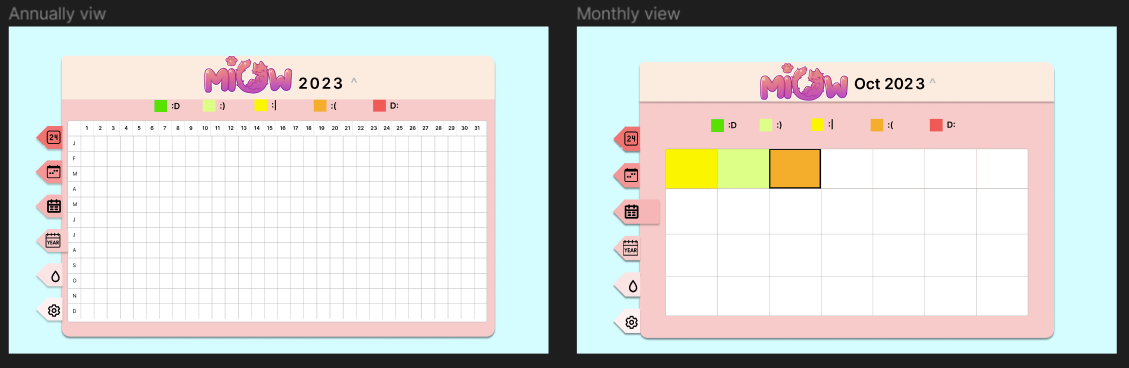
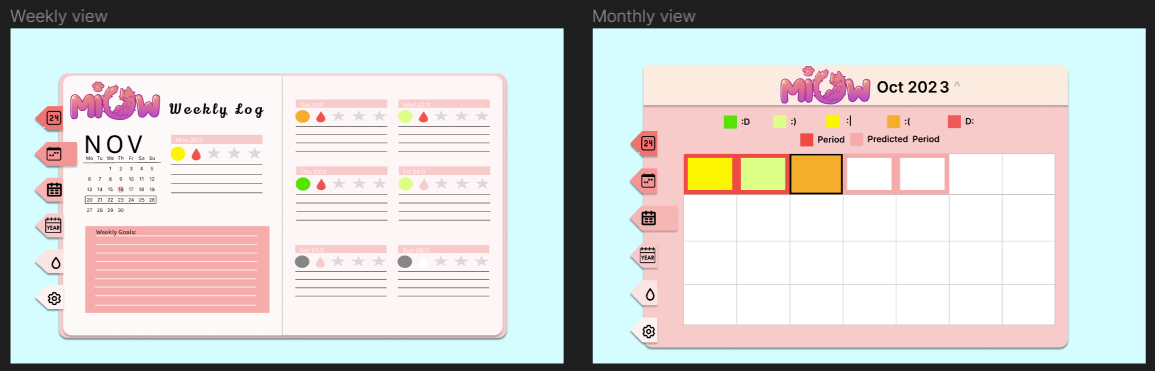
issues part one

Changed region(s): [[0.0, 0.0299, 1.0, 0.9864], [0.806, 0.7473, 0.868, 0.7772], [0.713, 0.7473, 0.744, 0.7772]]

diff --git a/README.md b/README.md
@@ -54,13 +54,14 @@ Unser Ziel ist es, eine umfassende Online-Plattform mit dem Namen "MIOW"(Mood In
 <img src="Usecase overviw.png">
 der benutzer hat die usecases
 
- * Login
- * Tägliche einträge machen
+ * A) Login
+ * B)Tägliche einträge machen
  ->hier hat man ein fenster wo man an einem tag seine Stimmung, einen Text, Periodendaten und weitere personalisierbaren faktoren eingeben kann
- * Auswerten des Tagebuches
--> hier sieht man pro woche und monat und jahr wie die stimmung verläuft in einem kalender view
- * Nächste Periode vorhersagen
-  -> hier sieht man in einem monatlichem kalender die periodendaten ( normal day, period, ovulating, predicted period und predicted ovulating)
+ * C)Auswerten des Tagebuches
+-> hier sieht man pro woche und monat wie die stimmung verläuft in einem kalender view
+ * D)Nächste Periode vorhersagen
+  -> hier sieht man in einem monatlichem kalender die periodendaten 
+* E) Settings
 
 ### 3.2 Use Case A - Login
 Man kann sich Anmelden und Registriren
@@ -77,7 +78,8 @@ Workflow mit ACD:
 ### 3.3 Use Case B - Tägliche einträge
 Möglichkeit, tägliche Einträge zu verfassen, Stimmungen auszuwählen und Aktivitäten hinzuzufügen. 
 Anpassbare Einträge für persönliche Vorlieben und Bedürfnisse(Usecase Settings). 
-Es soll feste definierte blöcke geben wie mood(1-5) oder stimmung(happy etc) und einen täglichen text.Daraus entsteht eine art Blockset, das jeden tag neu ausgefüllt werden kann.
+Es soll feste definierte blöcke wie mood(1-5), stimmung(happy etc) und einen täglichen text geben. Aber auch definierbare Templates. Daraus ensteht eine art Blockset, die man dan Jeden tag ausfüllen kann.
+Hier kann man mit Pfeiltasten zurück/nach vorne. Einträge kann man in der vergangenheit/ heute machen.
 #### 3.3.1 GUI-Design
 <img src = "UsecaseBGUI.png">
 hier hat man an einem tag ein "blockset"(kann man in den einstellungen festlegen, kommen wir später dazu)
@@ -90,15 +92,13 @@ Man Wählt den richtigen tag aus, trägt alles ein und es wird automatisch gespe
 
 ### 3.4 Use Case C - Auswerten der Einträge
 man hat verschiedene ansichen wo man jeweils den vortschritt seiner einträge sieht:
-* Jährlich: Man soll die Stimmung in Farben sehen(Jahr in Pixel). 
-* Monatlich: jeden Monat soll man von jedem Tag auch wieder die Stimmung sehen, aber nicht in Pixeln, sondern in bestimmten Stilen (zb im Oktober Kürbisse oder Weihnachten Weihnachtskugeln etc) 
-* wöchentlich: kurze Zusammenfassung, der Tage die schon eingetragen wurden sind.(normale Kalenderansicht ) 
+* Monatlich: jeden Monat soll man von jedem Tag auch wieder die Stimmung sehen 
+* Wöchentlich: kurze Zusammenfassung, der Tage die schon eingetragen wurden sind.(normale Kalenderansicht ) 
   ->in dieser ansicht kann man  auch seine wöchentlichen ziele notiren.
 #### 3.4.1 GUI -Design
 <img src = "UsecaseCGUI.png">
-hier sieht man nur die Stimmung an den jeweiligen tagen
-<img src = "UsecaseCGUI2.png">
-hier sieht man in welcher woche man ist, die wöchentlichen ziele und von jedem tag eine kurze zusammenfassung bestehend aus der Stimmung, Perioden-Status(settings...), weiteren ausgewählten sachen, und die ersten paar worte des daily logs.
+
+
 
 #### 3.4.2 Workflow
 Workflow mit ACD:
@@ -106,22 +106,14 @@ Workflow mit ACD:
 <img style="width: 500px" src = "Entries_Workflow.jpg">
 
 ### 3.5 Use Case D - Vorhersagen der Periode
-Der usecase ist wie gesagt nur für diejenigen die es enabled haben, hier hat man eine übericht darüber wann man eingegen hat wenn man seine periode hat und wann es vorgesagt wird dass man ovulated. die eingabe passiert beim täglichen eintragen und hier kann man nur schauen.
+Der usecase ist wie gesagt nur für diejenigen die es enabled haben, hier hat man eine übericht darüber wenn man seine periode hat. die eingabe passiert beim täglichen eintragen und hier kann man nur schauen.
 #### 3.5.1 GUI Design
-<img src = "UsecaseDGUI.png">
+wie in Usecase C - die Umrandung zeit den Status an 
 hier hat man einen monatlichen kalender, wo der Status des Menstruations zyklus dargestellt wird
 
 #### 3.5.2 Workflow
-
 ACD:
-
 <img style="width: 500px" src = "Period_Worklfow.jpg">
-
-den usecase übernimmt Lina zunehmend
-* zuerst werde ich mich genau darüber informiren wie man alles ausrechnet
-* danach werde ich die gui implmentiren
-* und schauen dass man zwischen monaten wechseln kann
-* danach werde ich implementiren dass die jeweiligen tage angezeigt werden
 
 ### 3.6  Use Case E - Settings
 Hier stellt man die verschiedensten sachen ein:
